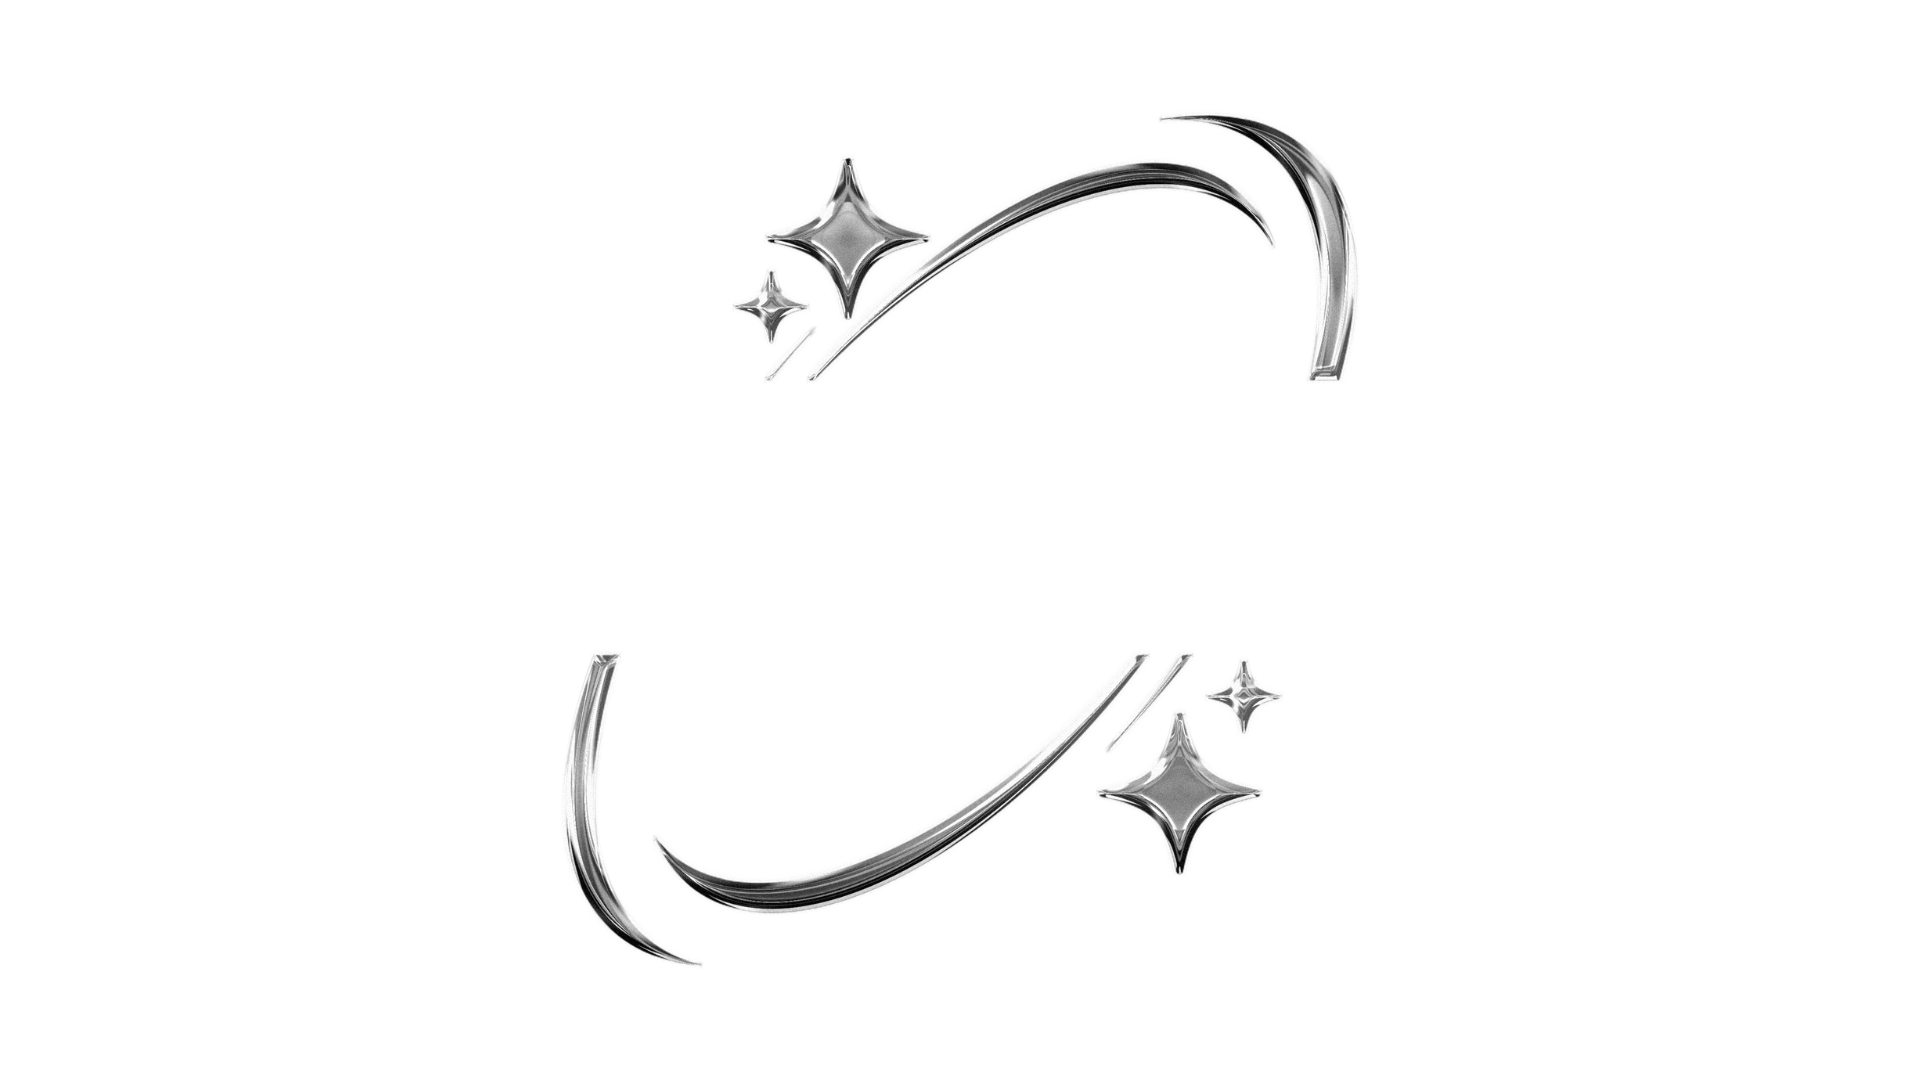
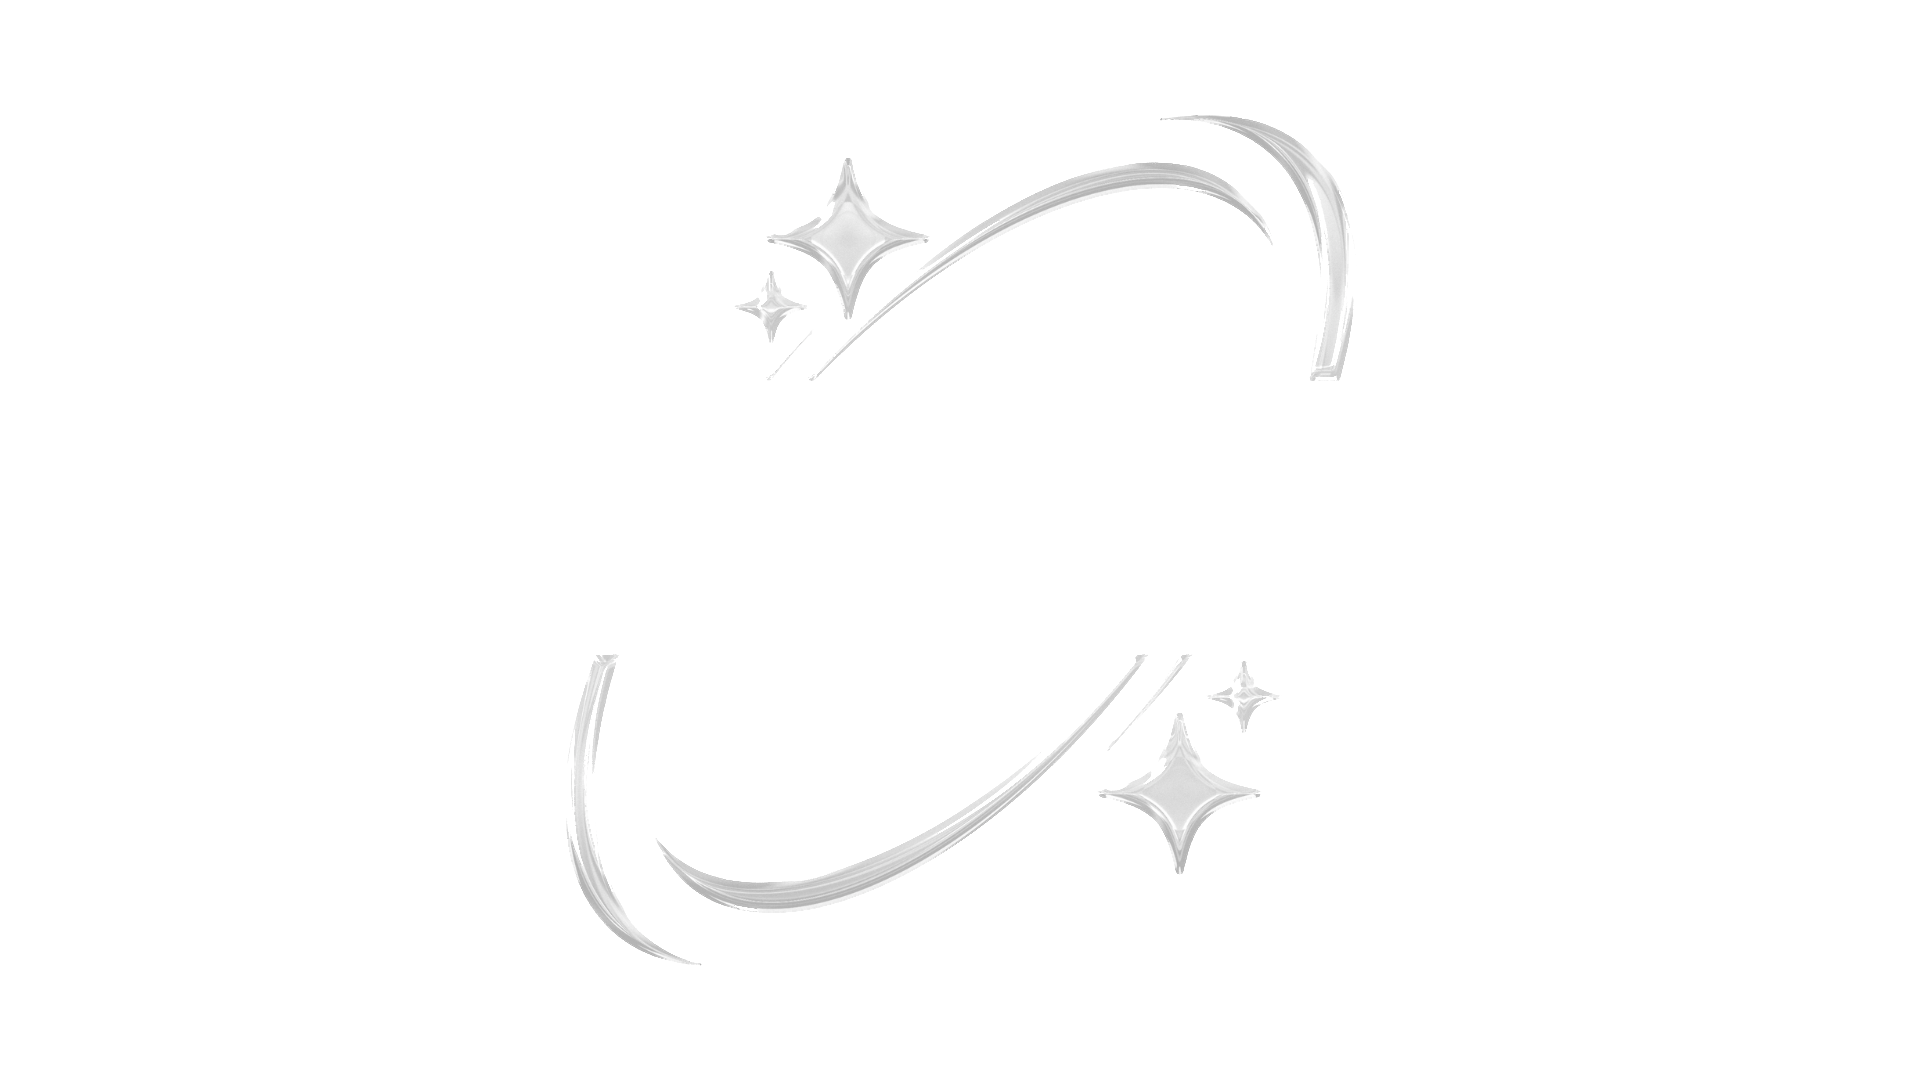
Fixed sizing

diff --git a/components/Hero.tsx b/components/Hero.tsx
@@ -10,16 +10,16 @@ const Hero = () => {
   return (
     <div className="relative min-h-screen">
         <div className="pb-20 pt-20 lg:pt-30 lg:pb-30">
-            <div className="flex justify-center relative my-12 z-10 gap-24">
-                <div className="max-w-[89vw] md:max-w-2xl lg:max-w-[60vw] flex flex-col pt-10">
+            <div className="flex flex-col lg:flex-row justify-center items-center relative my-12 z-10 gap-24">
+                <div className="max-w-[89vw] md:max-w-2xl lg:max-w-[60vw] flex flex-col">
                     <TextGenerateEffect
-                        className="text-left text-[32px] md:text-4xl lg:text-5xl"
+                        className="text-left text-[32px] md:text-4xl lg:text-4xl"
                         words="Brittney Oeur"
                     />
-                    <div className="text-center md:tracking-wider mb-10 text-sm md:text-lg lg:text-[20px] text-black">
+                    <div className="mb-5">
                         <FadingText
                             text="A software engineer by day and an artist by heart"
-                            className="text-center md:tracking-wider mb-20 text-sm md:text-lg lg:text-[20px]"
+                            className="text-left md:tracking-wider mb-20 text-sm md:text-lg lg:text-[20px]"
                             delay={0.2}
                         />
                     </div>

diff --git a/app/about/page.tsx b/app/about/page.tsx
@@ -6,18 +6,18 @@ import Footer from "@/components/ui/Footer";
 
 const About = () => {
     return (
-        <div className="relative flex flex-col min-h-screen mx-auto sm:px-6 md:px-14">
+        <div className="relative flex flex-col min-h-screen mx-auto px-6 sm:px-6 md:px-14">
             <motion.div 
                 initial={{ opacity: 0 }}
                 animate={{ opacity: 1 }}
                 transition={{ duration: 1.5 }}
-                className="absolute inset-0 bg-[url('/star-chrome.png')] bg-no-repeat bg-fixed bg-center bg-[length:1200px_675px]"
+                className="absolute inset-0 bg-[url('/star-chrome.png')] bg-no-repeat bg-fixed bg-center sm:bg-[length:1200px_675px] lg:bg-[length:800px_450px]"
             />
 
             <NavBar />
             
             {/* Content with semi-transparent white background */}
-            <div className="flex-1 flex justify-center items-center bg-white bg-opacity-80 relative">
+            <div className="flex-1 flex justify-center items-center relative">
                 <div className="max-w-[89vw] md:max-w-2xl lg:max-w-[60vw] flex flex-col">
                     <div className="text-center whitespace-normal mt-16">
                         <motion.h1 

diff --git a/components/ui/NavBar.tsx b/components/ui/NavBar.tsx
@@ -7,6 +7,11 @@ const NavBar = () => {
             {/*<h1 className="text-lg font-bold"><a href="/" className="text-black hover:text-orange duration-100 ease-in-out">Brittney Oeur</a></h1>*/}
             <ul className="flex gap-6">
                 <li>
+                    <a href="/" className="text-black hover:text-orange duration-75 ease-in-out">
+                        home
+                    </a>
+                </li>
+                <li>
                     <a href="./about" className="text-black hover:text-orange duration-75 ease-in-out">
                         about
                     </a>

diff --git a/components/ui/Footer.tsx b/components/ui/Footer.tsx
@@ -3,7 +3,7 @@ import { socialMedia } from '@/data'
 
 const Footer = () => {
   return (
-    <footer className="w-full pt-10 pb-4 mb-[100px] md:mb-5 bg-white " id="contact">
+    <footer className="w-full pt-10 pb-4 mb-[100px] md:mb-5 bg-white" id="contact">
         <div className="flex mt:16 md:flex-row flex-col justify-between items-center">
             <p className="md:text-base text-sm md:font-normal font-light text-black">Copyright © 2025 Brittney</p>
             <div className="flex items-center md:gap-5 gap-6">
